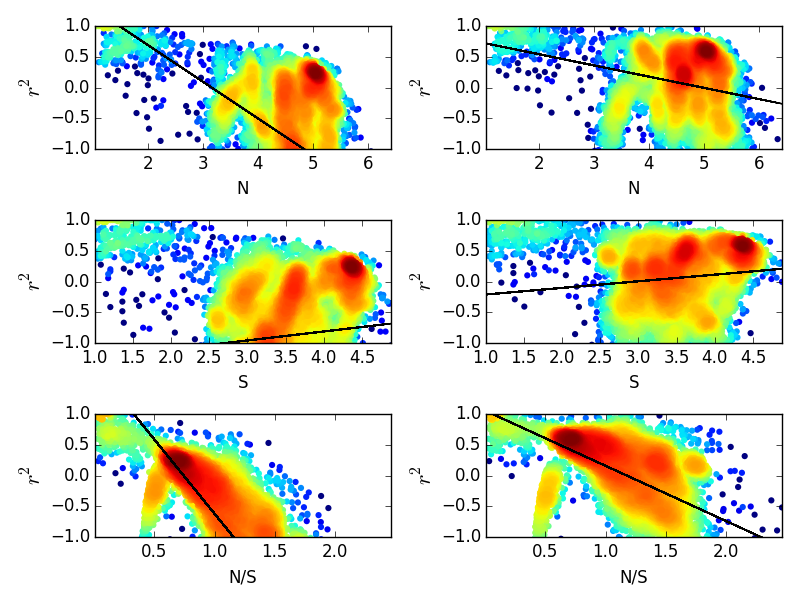
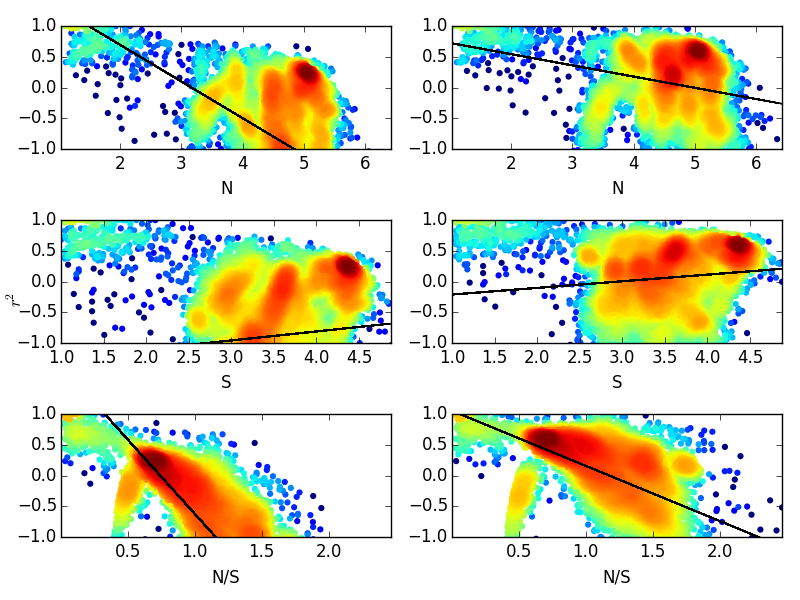
Fig(s) 2 generated

diff --git a/Python/generate_figs_regtest.py b/Python/generate_figs_regtest.py
@@ -242,7 +242,7 @@ def NSR2_regression(methods, datasets, data_dir= mydir):
 
                 y = ((nsr2_data["R2"]))
                 print method, dataset, param
-                ax = fig.add_subplot(2, 3, count+1)
+                ax = fig.add_subplot(3, 2, count+1)
                 if param == "N" or param == "S":
                     x = np.log10(((nsr2_data[param])))
                 else:
@@ -270,7 +270,7 @@ def NSR2_regression(methods, datasets, data_dir= mydir):
                 plt.subplots_adjust(wspace=0.5, hspace=0.3)
                 # Plotting
                 plt.xlabel(param)
-                plt.ylabel(r'$r^{2}$',fontsize=16)
+                #plt.ylabel(r'$r^{2}$',fontsize=16)
                 #r_2 = "r2 =" + str(round(r_value,2))
                 #p_s = "p =" + str(round(p_value,2))
                 #plt.text(0, 1, r'$p$'+ ' = '+str(round(p_value,2)), fontsize=12)
@@ -280,22 +280,27 @@ def NSR2_regression(methods, datasets, data_dir= mydir):
                 #leg.draw_frame(False)
                 #plt.legend(loc='upper left')
                 print r_value, p_value
+
                 count += 1
-        plt.tight_layout()
-        plt.text(-8,-80,'Rank-abundance at the centre of the feasible set',fontsize=10)
-        plt.text(-8.5,500,'Observed rank-abundance',rotation='90',fontsize=10)
-        fig_name = 'NSR2_GeomMete' + str(dataset) + '.png'
-        plt.savefig(fig_name)
-        #plt.xscale()
-        plt.close()
+    #ax.set_ylabel('common ylabel')
+    plt.tight_layout()
+    fig.text(0.02, 0.5, r'$r^{2}$', ha='center', va='center', rotation='vertical', size = 'medium')
+    #ax.set_ylabel('common ylabel')
+    #fig.text(-8,-80,'Rank-abundance at the centre of the feasible set',fontsize=10)
+    #plt.suptitle(-8.5,500,r'$r^{2}$',rotation='90',fontsize=10)
+    fig_name = 'NSR2_GeomMete' + str(dataset) + '.png'
+    plt.savefig(fig_name)
+    plt.xscale()
+    plt.close()
 
 methods = ['geom', 'mete']
 #methods = ['geom']
-datasets = ['HMP', 'EMPclosed', 'EMPopen']
+#datasets = ['HMP', 'EMPclosed', 'EMPopen']
 #datasets = ['EMPclosed', 'EMPopen']
 #datasets = ['HMP']
+datasets = ['EMPclosed'] 
 #datasets = ['EMPopen']
 params = ['N','S', 'N/S']
 #generate_obs_pred_data(datasets, methods, 0)
-plot_obs_pred_sad(methods, datasets)
-#NSR2_regression(methods, datasets, data_dir= mydir)
+#plot_obs_pred_sad(methods, datasets)
+NSR2_regression(methods, datasets, data_dir= mydir)

diff --git a/README.md b/README.md
@@ -4,11 +4,11 @@ Project repository for data and Python code associated with the testing of maxim
 
 ###To do's:
 **Ken:**  
-1.) MG-RAST data for 95% and 99%  
-2.) Start lit cited.
+- [ ] MG-RAST data for 95% and 99%  
+- [x] Start lit cited.
 
 **Will:**  
-1.) Figures  
-2.) Finish table 1  
-3.) Refine/finish lit cited.  
-4.) Edit and revise main body.
+- [x] Figures  
+- [ ] Finish table 1  
+- [ ] Refine/finish lit cited.  
+- [ ] Edit and revise main body.
